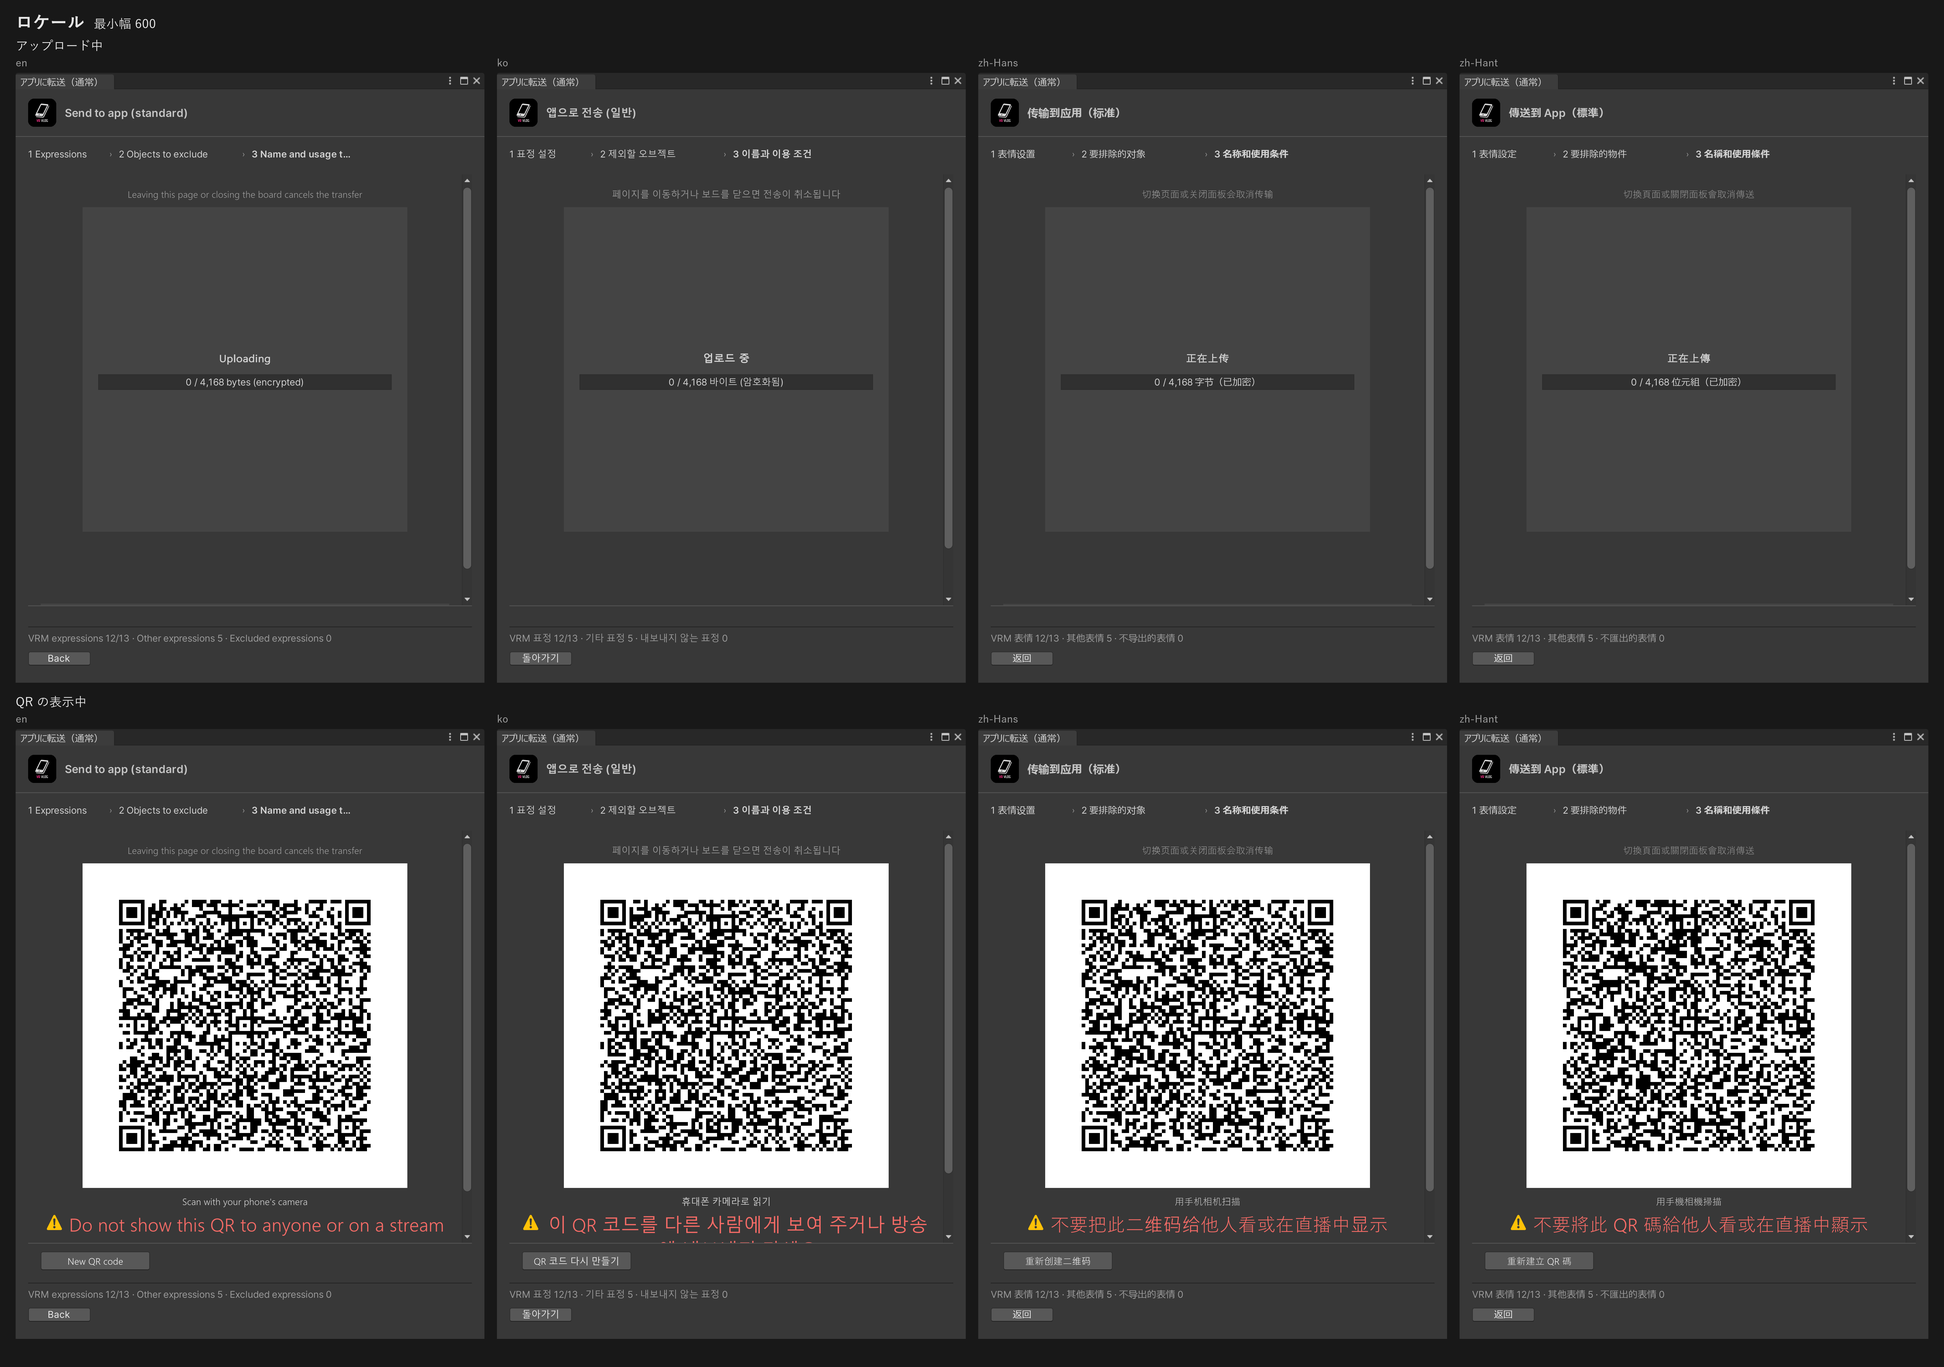
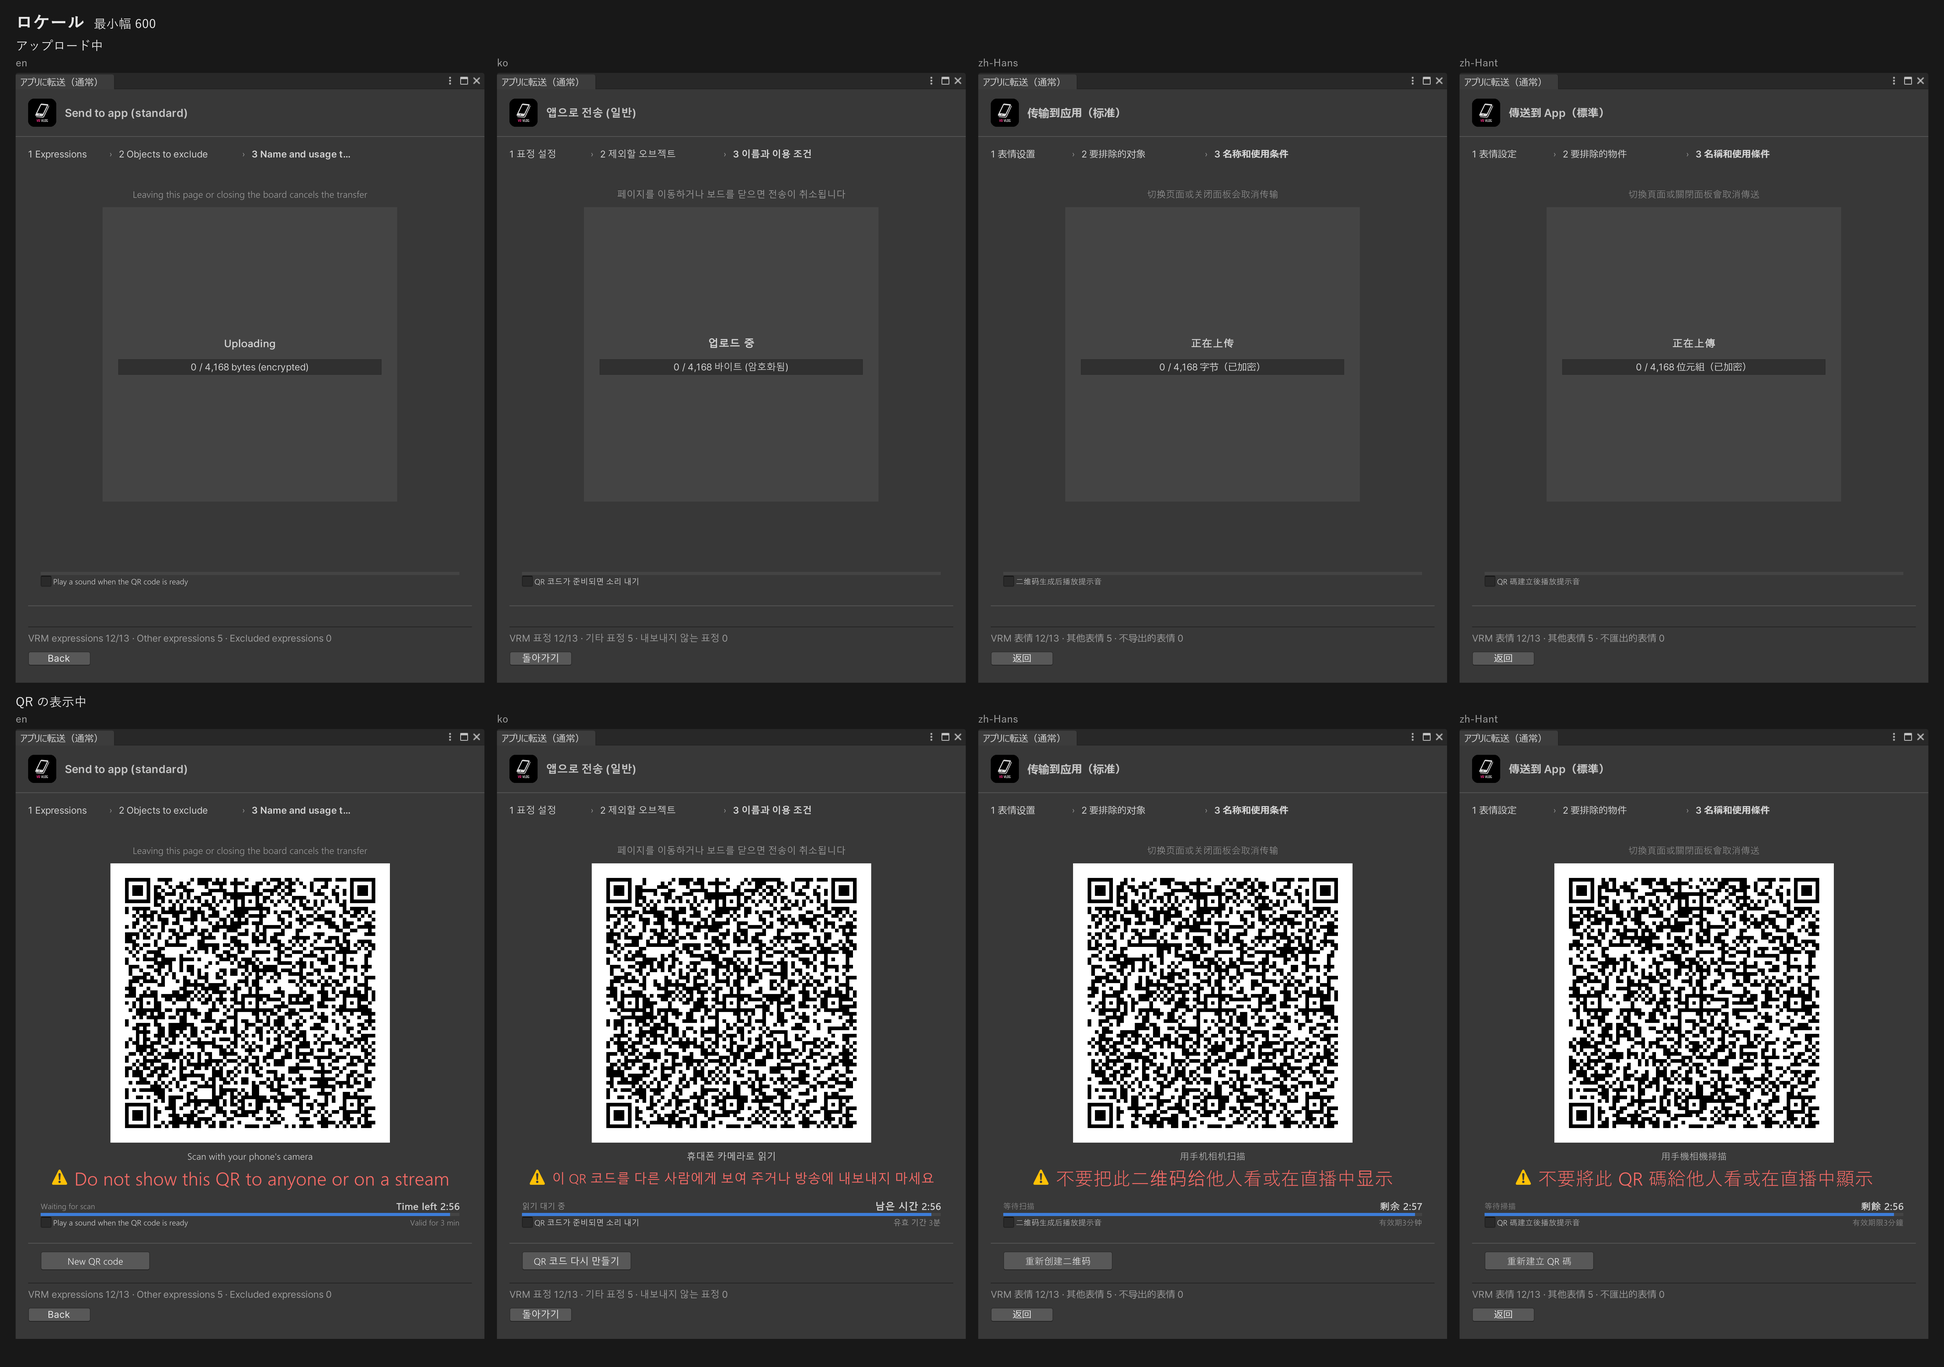
Keep the QR safety notice whole and the remaining time on screen at the board's 600x760 minimum
The notice was cut off and the countdown sat below the fold, so the embedded QR now takes the height the page leaves (200pt symbol minimum) and the notice shrinks its font to stay on one line.

diff --git a/Editor/LanTransfer/AppTransferPanel.cs b/Editor/LanTransfer/AppTransferPanel.cs
@@ -25,6 +25,8 @@ namespace VRVlog.LilToonExporter.LanTransfer
         // most, zh-Hans) where one 18-high line used to be, so 47 more than before needs no scrolling.
         private const float TransferChrome = 253f;
         internal static readonly Vector2 FormMinimumSize = new Vector2(420f, 400f);
+        // The QR notice's size in the window (AppTransferWindow.uss), and the smallest it is made on the board.
+        private const float WarningFontSize = 24f, SmallestWarningFontSize = 12f;
         // Above the QR once the export is saved, when materials lost their shader. Kept out of
         // AppTransferText: that list holds one-line texts without punctuation or requests.
         internal const string MissingShadersText = "シェーダーが見つからないマテリアルが{0}個あり、見た目を正しく再現できていません。アバターに必要なシェーダーをUnityプロジェクトに追加して、もう一度書き出してください";
@@ -73,6 +75,8 @@ namespace VRVlog.LilToonExporter.LanTransfer
         [NonSerialized] private AppTransferView shownView, polledView;
         // Device pixels per point of the panel, read where IMGUI knows it.
         [NonSerialized] private float pixelsPerPoint;
+        // On the board, the most the QR area may take of the page's height (FitToArea).
+        [NonSerialized] private float embeddedRoom = float.PositiveInfinity;
 
         [NonSerialized] private bool built;
         [NonSerialized] private VisualElement root, content, form, formFields, consentFields, privacyRow, transfer, slotRow, slot, slotMessage, slotUpload, warningRow, barFill;
@@ -83,7 +87,9 @@ namespace VRVlog.LilToonExporter.LanTransfer
         [NonSerialized] private ObjectField avatarField;
         [NonSerialized] private TextField nameField;
         [NonSerialized] private Toggle consentToggle, privacyToggle, soundToggle;
-        [NonSerialized] private Image qrImage;
+        [NonSerialized] private Image qrImage, warningIcon;
+        [NonSerialized] private ScrollView transferScroll;
+        [NonSerialized] private VisualElement transferBody;
         [NonSerialized] private IMGUIContainer uploadBar;
 
         // The third page of the expression board in its transfer mode, for the board's avatar.
@@ -389,10 +395,49 @@ namespace VRVlog.LilToonExporter.LanTransfer
             get
             {
                 var side = Mathf.Max(placeholderSide, 2 * TransferQrCode.QuietZone + 21);
-                var scale = ScaleFactor;
-                var smaller = side - 4 >= 2 * TransferQrCode.QuietZone + 21 ? TransferQrCode.DisplaySide(side - 4, scale) : 0f;
-                return Mathf.Max(TransferQrCode.DisplaySide(side, scale), smaller);
+                var smaller = side - 4 >= 2 * TransferQrCode.QuietZone + 21 ? QrSide(side - 4) : 0f;
+                return Mathf.Max(QrSide(side), smaller);
             }
+        }
+
+        // On the board the QR takes what the page's height leaves it (FitToArea); in the window, its full size.
+        private float QrSide(int matrixSide) => embedded
+            ? TransferQrCode.FittedSide(matrixSide, embeddedRoom, ScaleFactor)
+            : TransferQrCode.DisplaySide(matrixSide, ScaleFactor);
+
+        // The height the board's page leaves for the QR area: the scroll's visible height less every
+        // other row of the QR screen. Those rows have fixed heights, so the text size does not change it,
+        // and resizing the QR area changes the rows' total by as much, so it settles at once.
+        private void FitToArea()
+        {
+            if (!embedded || !built || transfer.resolvedStyle.display == DisplayStyle.None) return;
+            var visible = transferScroll.contentViewport.layout.height;
+            var rows = transferBody.layout.height - slotRow.layout.height;
+            if (float.IsNaN(visible) || float.IsNaN(rows) || visible <= 0f) return;
+            var room = Mathf.Floor(visible - rows);
+            if (Mathf.Abs(room - embeddedRoom) < 0.5f) return;
+            embeddedRoom = room;
+            slotRow.style.height = SlotSide;
+            PlaceSlot();
+        }
+
+        // On the board the QR notice is one line: the largest size up to its own that fits the width.
+        // Too narrow even at the smallest size, it wraps as in the window.
+        private void FitWarning()
+        {
+            if (!embedded || !built) return;
+            var room = warningRow.contentRect.width - warningIcon.layout.width - warningIcon.resolvedStyle.marginLeft - warningIcon.resolvedStyle.marginRight;
+            var current = warningText.resolvedStyle.fontSize;
+            if (float.IsNaN(room) || room <= 0f || current <= 0f || string.IsNullOrEmpty(warningText.text)) return;
+            var width = warningText.MeasureTextSize(warningText.text, 0f, VisualElement.MeasureMode.Undefined, 0f, VisualElement.MeasureMode.Undefined).x;
+            if (width <= 0f) return;
+            // Two points spare, and one size up is not taken: text width is not quite linear in its size,
+            // so the line stays inside the row and does not flip between two sizes on every refresh.
+            var fitted = Mathf.Min(WarningFontSize, Mathf.Floor(current * (room - 2f) / width));
+            var line = fitted >= SmallestWarningFontSize;
+            warningRow.EnableInClassList("warning--line", line);
+            if (!line) warningText.style.fontSize = StyleKeyword.Null;
+            else if (fitted < current || fitted >= current + 2f || fitted == WarningFontSize) warningText.style.fontSize = fitted;
         }
 
         // The window is at least as large as the QR it is about to show. On a short screen (1080p at 150%)
@@ -520,7 +565,7 @@ namespace VRVlog.LilToonExporter.LanTransfer
             var headerIcon = root.Q<Image>("header-icon");
             headerIcon.image = ExporterWindowIcon.Texture;
             headerIcon.scaleMode = ScaleMode.ScaleToFit;
-            var warningIcon = root.Q<Image>("warning-icon");
+            warningIcon = root.Q<Image>("warning-icon");
             warningIcon.image = EditorGUIUtility.IconContent("console.warnicon").image;
             warningIcon.scaleMode = ScaleMode.ScaleToFit;
             qrImage.scaleMode = ScaleMode.StretchToFill;
@@ -570,7 +615,15 @@ namespace VRVlog.LilToonExporter.LanTransfer
             // The export starts once the panel has drawn the Exporting state.
             slot.generateVisualContent += _ => { if (shownView == AppTransferView.Exporting) exportPainted = true; };
             slotRow.RegisterCallback<GeometryChangedEvent>(_ => PlaceSlot());
-            root.Q<ScrollView>("transfer-scroll").verticalScroller.valueChanged += _ => PlaceSlot();
+            transferScroll = root.Q<ScrollView>("transfer-scroll");
+            transferBody = transferScroll.Q(className: "body");
+            transferScroll.verticalScroller.valueChanged += _ => PlaceSlot();
+            if (embedded)
+            {
+                transferScroll.contentViewport.RegisterCallback<GeometryChangedEvent>(_ => FitToArea());
+                transferBody.RegisterCallback<GeometryChangedEvent>(_ => FitToArea());
+                warningRow.RegisterCallback<GeometryChangedEvent>(_ => FitWarning());
+            }
             built = true;
             Refresh();
         }
@@ -735,6 +788,7 @@ namespace VRVlog.LilToonExporter.LanTransfer
             var waiting = view == AppTransferView.Waiting;
             scanLabel.text = waiting ? T(AppTransferText.ScanWithCamera) : "";
             warningText.text = T(AppTransferText.DoNotShare);
+            FitWarning();
             Reserve(warningRow, waiting);
             var counting = waiting || view == AppTransferView.Expired;
             statusLabel.text = waiting ? T(flow.StatusUnknown ? AppTransferText.StatusUnknown : AppTransferText.Waiting) : "";
@@ -762,7 +816,7 @@ namespace VRVlog.LilToonExporter.LanTransfer
             slot.style.width = side;
             slot.style.height = side;
             if (qrTexture == null) return;
-            var qr = Mathf.Min(TransferQrCode.DisplaySide(qrTexture.width, ScaleFactor), side);
+            var qr = Mathf.Min(QrSide(qrTexture.width), side);
             var offset = Snap((side - qr) / 2f);
             qrImage.style.left = offset;
             qrImage.style.top = offset;

diff --git a/Tests/LanTransfer/AppTransferFlowTests.cs b/Tests/LanTransfer/AppTransferFlowTests.cs
@@ -132,6 +132,32 @@ namespace VRVlog.LilToonExporter.LanTransfer.Tests
         }
 
         [Test]
+        public void QrFittedToAHeightKeepsWholePixelModulesAndTwoHundredPointsOfSymbol()
+        {
+            foreach (var scale in new[] { 1f, 1.25f, 1.5f, 2f })
+                foreach (var side in new[] { 29, 57, 185 })
+                {
+                    var full = TransferQrCode.DisplaySide(side, scale);
+                    Assert.That(TransferQrCode.FittedSide(side, full, scale), Is.EqualTo(full));
+                    Assert.That(TransferQrCode.FittedSide(side, float.PositiveInfinity, scale), Is.EqualTo(full));
+                    foreach (var room in new[] { 0f, 150f, 260f, 359f, full - 1f })
+                    {
+                        var points = TransferQrCode.FittedSide(side, room, scale);
+                        var pixelsPerModule = points * scale / side;
+                        Assert.That(Math.Abs(pixelsPerModule - Math.Round(pixelsPerModule)) < 0.001, Is.True);
+                        Assert.That(points <= full, Is.True);
+                        var symbol = points * (side - 2 * TransferQrCode.QuietZone) / side;
+                        Assert.That(symbol >= TransferQrCode.SmallestSymbolSide - 0.001, Is.True);
+                        // Larger than the room only where the room is under the smallest symbol.
+                        if (points > room + 0.001)
+                            Assert.That((pixelsPerModule - 1) * (side - 2 * TransferQrCode.QuietZone) / scale < TransferQrCode.SmallestSymbolSide, Is.True);
+                        else
+                            Assert.That((pixelsPerModule + 1) * side / scale > room, Is.True);
+                    }
+                }
+        }
+
+        [Test]
         public async Task FlowShowsTheLinkAfterTheUploadAndCountsDownToTheServiceDeadline()
         {
             var currentTime = DateTimeOffset.UtcNow.ToUnixTimeSeconds();

diff --git a/Editor/LanTransfer/AppTransferFlow.cs b/Editor/LanTransfer/AppTransferFlow.cs
@@ -75,6 +75,21 @@ namespace VRVlog.LilToonExporter.LanTransfer
             var pixelsPerModule = (int)Math.Ceiling(MinimumSymbolSide * scale / (matrixSide - 2 * QuietZone));
             return matrixSide * pixelsPerModule / scale;
         }
+
+        // On the expression board the QR shares a page of fixed height with the rows around it.
+        internal const int SmallestSymbolSide = 200;
+
+        // DisplaySide, made smaller to fit within maxSide points: whole pixels per module still, and
+        // never under SmallestSymbolSide points of symbol, so a short area scrolls rather than an unreadable QR.
+        internal static float FittedSide(int matrixSide, float maxSide, float pixelsPerPoint = 1f)
+        {
+            var full = DisplaySide(matrixSide, pixelsPerPoint);
+            if (!(maxSide < full)) return full;
+            var scale = pixelsPerPoint > 0f ? pixelsPerPoint : 1f;
+            var fitting = (int)Math.Floor(maxSide * scale / matrixSide);
+            var smallest = (int)Math.Ceiling(SmallestSymbolSide * scale / (matrixSide - 2 * QuietZone));
+            return matrixSide * Math.Max(fitting, smallest) / scale;
+        }
     }
 
     internal enum AppTransferView { Form, Exporting, Uploading, Waiting, Completed, Expired, Canceled, Failed }

diff --git a/Documentation~/decisions/2026-10-22-transfer-in-board.md b/Documentation~/decisions/2026-10-22-transfer-in-board.md
@@ -15,6 +15,8 @@
 - 表情ボードの3ページ目の見出しは、転送では「3 名前と利用条件」。2ページ目の **次へ：名前と利用条件** は除外をプレビューに反映してから3ページ目へ進む。3ページ目では下のバーの右のボタンを出さない（パネルの **QRコードを作る** を使う。ボタンの場所は空けておき、ほかのページと位置を変えない）。**戻る** は2ページ目に戻る。
 - パネルの見出し・アバターの行・前回の設定の行・**閉じる** は、表情ボードの見出しと下のバーと重なるので、3ページ目では出さない。表情ボードはパネルを置く場所の高さを固定で取り、パネルの中身でページの配置が変わらないようにした。
 - 3ページ目から移る（**戻る**）か表情ボードを閉じると、パネルが画面から外れ、進行中の転送を中止して転送用の一時VRMを削除する。ウィンドウを閉じたときと同じ扱い。転送中だけ、QR と進捗の近くに「ページを移るかボードを閉じると転送を中止します」を1行出す。行の高さはどの状態でも取っておき、出る・消えるで配置が動かないようにした。**アプリに転送** のウィンドウにはこの行を出さない（見た目を変えない）。
+- 3ページ目では、QR（とアップロード中に同じ場所に出す枠）の大きさを、パネルを置く場所の高さから残りの行の高さを引いた分に合わせる。最小幅 600・高さ 760 でも、QR・警告・読み取り待ちと残り時間の行・**QRを作り直す** がスクロールなしで見える。1モジュールを整数ピクセルにするのはウィンドウと同じで、QR本体は 200pt より小さくしない（読み取れる大きさを保つ。それより低い場所ではスクロールする）。行の高さは固定なので、文字の大きさで QR の大きさは変わらない。**アプリに転送（かんたん）** のウィンドウはこれまでどおり QR本体 300pt 以上。
+- 3ページ目では「QRを他の人に見せたり配信に映したりしないでください」を1行で出し、文字の大きさを幅に合わせて 24px から小さくする（文言は変えない・途中で折り返さない）。行の高さは固定。12px でも収まらない幅のときだけ、ウィンドウと同じく折り返す。
 - 別のアバターで **アプリに転送（通常）** を開いたときは、表情ボードを1ページ目からやり直す。同じアバターで開き直したときは、今のページのまま。
 - **アプリに転送（かんたん）** は、これまでどおり別のウィンドウのまま。表情ボードを出さずにすぐ送るためのもので、書き出す中身は表情ボードを開いたまま何も変えずに通常で書き出した場合と同じ（`QuickTransferMatchesDefaultNormalTests`）。Exporter が動かない環境（対応しない UniVRM・lilToon）では、**アプリに転送（通常）** を選んでもこれまでどおり **アプリに転送** のウィンドウが開いて理由を出す。
 
@@ -52,4 +54,4 @@ Codex 指摘で採ったもの: 戻るは閉じるだけ・相手の名指し・
 
 - EditMode: `CloudTransferTests.DecliningTheStartDialogKeepsTheOtherUploadAndStartsNothing`（アップロード中の通常のパネルがあるとき、かんたんのパネルで **もう一度** を押して **戻る** を選ぶと、相手はアップロード中のまま一時VRMも残り、こちらは失敗の画面のまま。本文は相手を名指しする）。`CloudTransferTests.AcceptingTheStartDialogStopsTheOtherQrBeforeStarting`（QR を表示中のかんたんのパネルがあるとき、通常のパネルで **中止して始める** を選ぶと、相手は名前と同意の画面に戻って QR が消え、こちらはアップロードを始める）。
 - `WindowTextFollowsTheWordingRulesAndExistsInEveryLocale` で、足した文言が全ロケールにあることを確かめた。`QuickTransferMatchesDefaultNormalTests` は変えずに通る。
-- 表情ボードの3ページ目（フォーム・アップロード中・QR の表示中）を幅 1000 と 600 で、4 ロケールを幅 600 で撮って目で確かめた。**アプリに転送（かんたん）** のウィンドウは幅 520 で変更前と画素で比べた。比較画像は `Documentation~/Verification/transfer-in-board-*.png`。
+- 表情ボードの3ページ目（フォーム・アップロード中・QR の表示中）を幅 1000 と 600 で、4 ロケールを幅 600 で撮って目で確かめた。幅 600 と 1000（高さ 760）の QR の表示中で、警告が5ロケールとも1行に収まり、残り時間と **QRを作り直す** がスクロールなしで見えることを確かめた。`CloudTransferTests.QrFittedToAHeightKeepsWholePixelModulesAndTwoHundredPointsOfSymbol` で、高さに合わせた QR が整数ピクセルのモジュールと 200pt 以上の本体を保つことを確かめた。**アプリに転送（かんたん）** のウィンドウは幅 520 で変更前と画素で比べた（違いは輝度 1 の 10 画素だけ）。比較画像は `Documentation~/Verification/transfer-in-board-*.png`。
